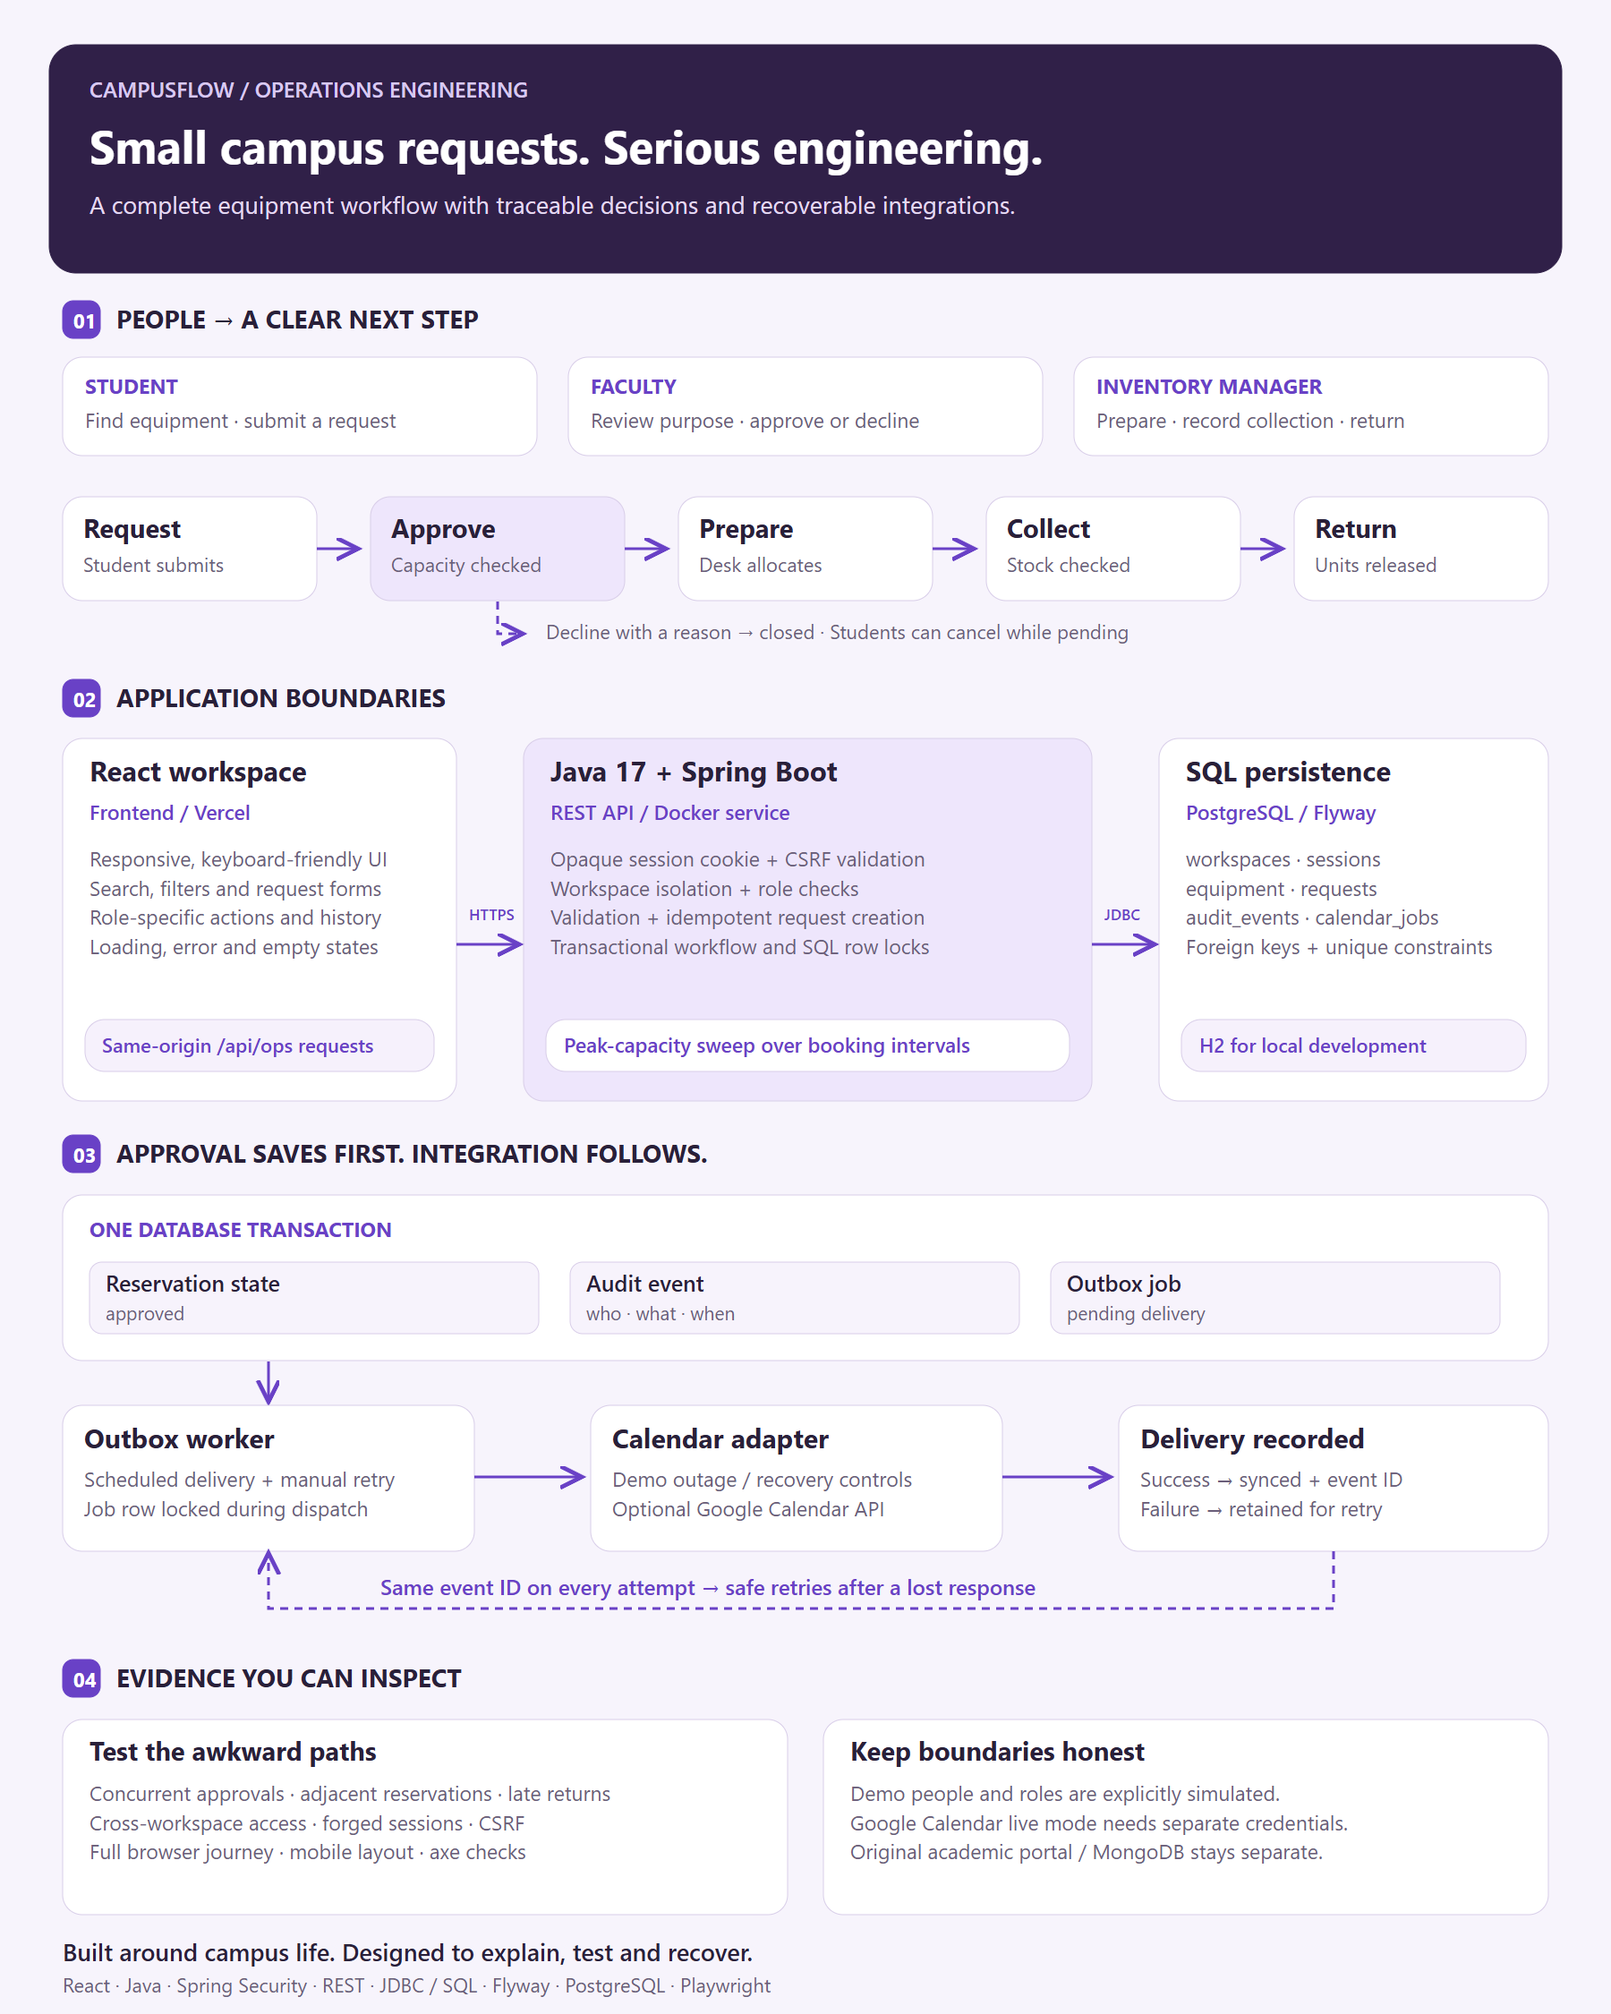
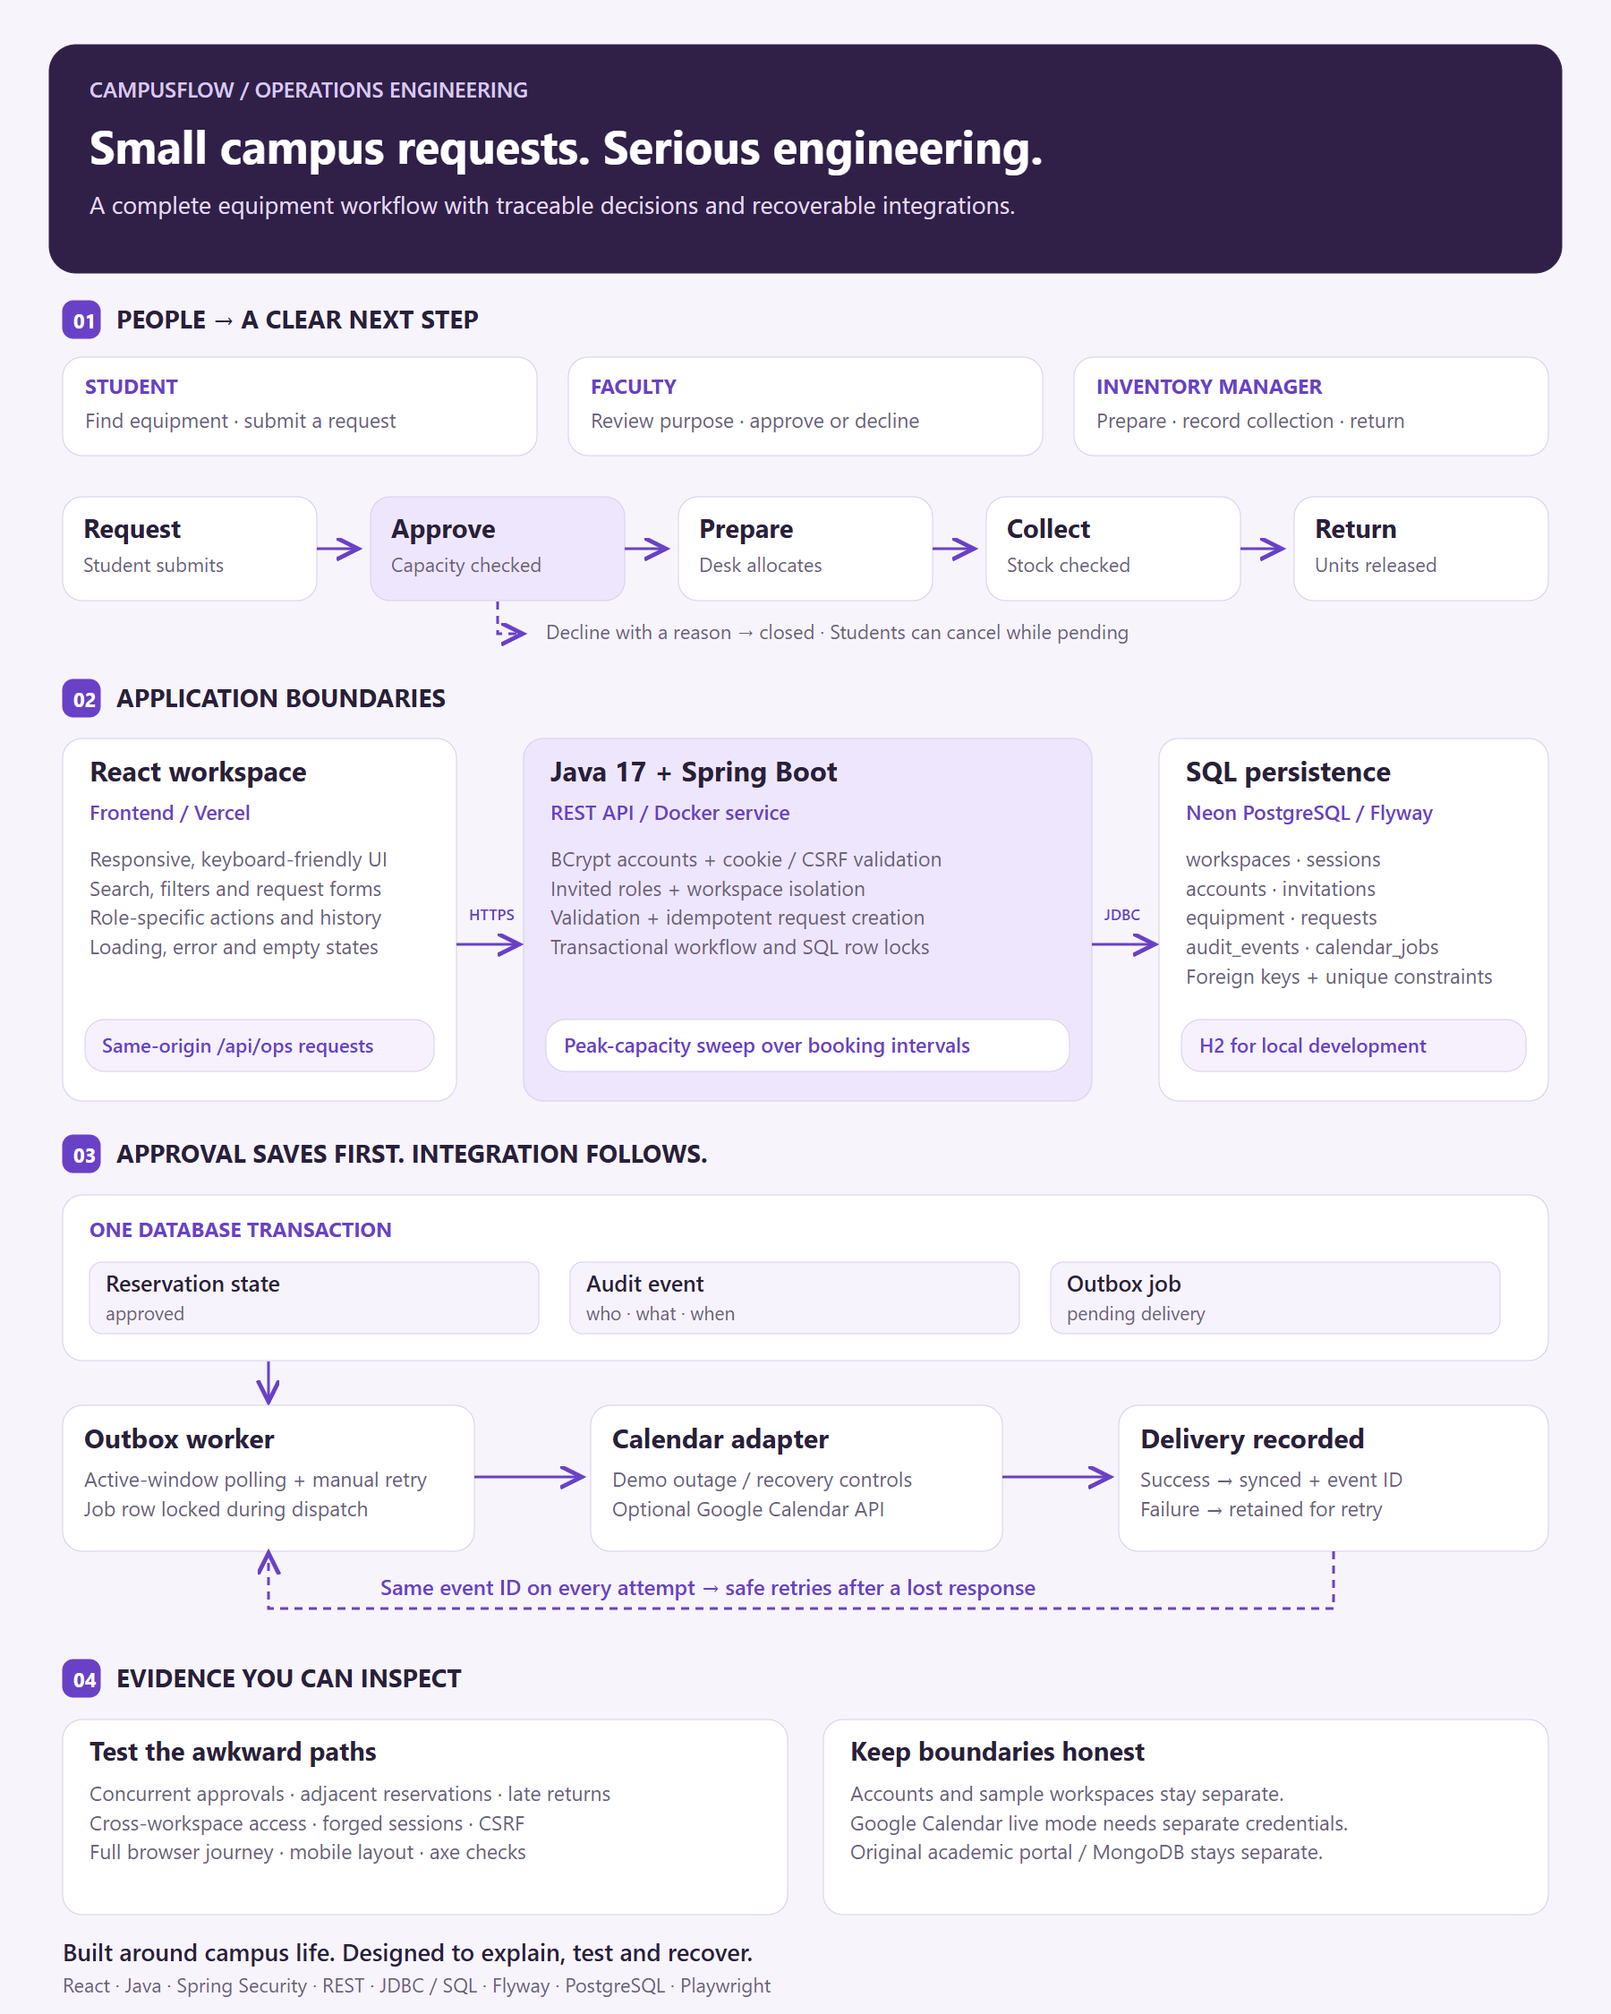
docs: explain team accounts and record Neon migration

diff --git a/docs/DEPLOYMENT.md b/docs/DEPLOYMENT.md
@@ -1,42 +1,66 @@
 # Deployment and verification
 
-The frontend runs on Vercel. The Spring Boot API runs as a Docker web service on Render, with a separate PostgreSQL database in Singapore. `/api/ops/*` must be proxied from Vercel to the Java service so HttpOnly cookies stay on the frontend origin.
+The frontend runs on Vercel. The Spring Boot API runs as a Docker web service on Render, with Neon PostgreSQL in Singapore. `/api/ops/*` must be proxied from Vercel to the Java service so HttpOnly cookies stay on the frontend origin.
 
 ## Current status
 
 - Local production frontend build passed with `CI=true`.
-- 16 Java tests passed using isolated H2 databases and PostgreSQL 18 in GitHub Actions.
-- 13 browser tests passed, including the full workflow and automated accessibility scans.
+- 25 Java tests passed using isolated H2 databases and PostgreSQL 18 in GitHub Actions.
+- 15 browser tests passed locally, including account invitations, restored bookings, the full workflow and automated accessibility scans.
 - Real app screenshots are in `docs/screenshots/`; reproducible script: `npm run screenshots`.
 - Vercel project: `samsh2/campusflow-ops`.
-- Render database: `campusflow-ops-db`, PostgreSQL 18, Singapore.
+- Neon project: `CampusFlow`, PostgreSQL 18, AWS Singapore, Free plan.
+- Imported branch: `br-soft-butterfly-b3lpm99o`; database: `neondb`. The initially created `production` branch is separate and empty.
 - Live frontend: https://campusflow-ops.vercel.app
 - Live Spring Boot service: https://campusflow-ops.onrender.com
-- Render successfully connected to PostgreSQL 18.6, applied migration V1 and returned `UP` from `/actuator/health` on 12 September 2026 (IST).
-- Backend deployment revision: `2a88f3c`; frontend deployment includes `ba4b414`. The Java source is identical across these revisions.
-- PostgreSQL and browser CI: [successful run 34597902279](https://github.com/Sammmmsh/CampusFlow/actions/runs/34597902279).
-- All 13 Playwright tests passed against the public Vercel URL on 12 September 2026: full handoff journey with reload persistence, calendar failure/recovery, forbidden role actions, search, mobile navigation, seven axe page scans and keyboard/dialog checks.
-- Live session checks confirmed `Secure`, `HttpOnly`, `SameSite=Lax`, and `private, no-store`. Missing CSRF tokens and untrusted origins both returned HTTP 403.
-- The seven README screenshots were recaptured from the deployed Vercel site.
+- Backend revision `8f3ed42` is live on Render. Both `/actuator/health` and `/actuator/health/liveness` returned HTTP 200 with `UP` after cutover.
+- Neon shows successful Flyway V1 and V2 history entries. V2 adds accounts and invitation membership to the imported workflow data.
+- Vercel production deployment `dpl_GQynv4eo7oSo7yJRh2LWRjGvZE2b` serves the account UI at the existing public URL.
+- [PostgreSQL and browser CI](https://github.com/Sammmmsh/CampusFlow/actions/runs/34701996862) passed for the deployed application source.
+- The post-migration live browser run is pending. Attempts from the development network on 13 September returned connection resets/timeouts before the Vercel application loaded. A manual GitHub-hosted check is prepared to verify the public deployment from another network.
+- The sign-in screenshot was captured from the running local application; the existing workflow screenshots were captured from the earlier live deployment. Refresh them with the live workflow after verification.
 
-The Render **free PostgreSQL database expires on 11 October 2026**. It is suitable for a temporary portfolio demo. Move the operations data to a durable PostgreSQL plan or another provider before that date if the demo must remain available. No paid plan was enabled. The free Java instance also sleeps after inactivity, so its first request can take longer.
+The old Render **free PostgreSQL database expires on 11 October 2026**. It is retained as the migration source and was not deleted. Neon displayed no branch expiry on its Free plan; this is still a quota-limited service, not a promise of permanent free hosting. No paid plan was enabled. The free Java instance sleeps after inactivity, so its first request can take longer.
+
+## Migration record
+
+Neon's importer copied the Render operations database into a new branch on 12 September 2026 at approximately 14:58 IST. Read-only checks found all seven V1 tables and a successful Flyway V1 history entry. Counts in that snapshot were 15 workspaces, 90 equipment records, 76 requests, 232 audit events, three calendar jobs and 15 sessions. The imported database has the standard `plpgsql` extension; the application does not depend on a provider-specific extension.
+
+The earlier importer warning was no longer visible when verification resumed. The copied schema and rows were verified, but the exact warning text was not recovered. This was a snapshot of the sample-workspace deployment, not ongoing replication: sample changes made on the old service after the snapshot are retained only in the old source. Real account registration was introduced after the import. The MongoDB academic database was not part of this migration.
+
+For another migration, pause writes, export PostgreSQL with `pg_dump --format=custom --no-owner --no-acl`, restore into an empty target, compare table counts and Flyway history, update Render's three database variables, then verify sign-in and a complete booking. Keep the source until the new database is verified. Once new writes are accepted, a rollback must preserve those writes rather than simply reconnecting to an older snapshot.
+
+## Idle behavior and free limits
+
+Use `/actuator/health/liveness` for Render's automatic probe. It checks the Java process without querying SQL. `/actuator/health` still checks database connectivity when explicitly requested. Hikari keeps zero minimum idle connections, closes idle connections after about 30 seconds and has no keepalive query. The calendar worker stops querying after three minutes without operations API traffic and resumes after the next request. Pending calendar delivery can therefore wait while the application is idle.
+
+The selected Neon Free plan showed 0.5 GB storage, 100 CU-hours of monthly compute and 5 GB network transfer. Limits and policies can change; check the provider dashboards. High traffic, repeated polling or continuous database queries can consume the allowance. Render and Vercel have their own free-tier limits. There is no keep-alive pinger or paid upgrade configured by this project.
 
 ## Recreate the deployment
 
 1. Create a new PostgreSQL database for operations. The academic MongoDB database remains independent.
 2. Deploy the repository's `main` branch as a Render **Docker** web service in the same region as PostgreSQL.
-3. Set Dockerfile path to `ops-service/Dockerfile`, build context to `ops-service`, and health check to `/actuator/health`.
+3. Set Dockerfile path to `ops-service/Dockerfile`, build context to `ops-service`, and health check to `/actuator/health/liveness`.
 4. Set `JDBC_DATABASE_URL`, `DATABASE_USERNAME`, `DATABASE_PASSWORD`, `APP_ORIGIN` (the exact frontend origin), `COOKIE_SECURE=true` and `DEMO_ENABLED=true` in the service environment. Never commit credentials. The default H2 file is local development storage and must not be used as persistent production storage on an ephemeral host.
 5. Deploy `frontend/` as a Create React App project on Vercel. Use `npm ci`, `npm run build`, and output directory `build`.
 6. Configure the `/api/ops/:path*` rewrite to the actual Render service, followed by the SPA route fallback. Keep API responses uncacheable.
 7. Verify session creation, CSRF, the full role workflow, database persistence and outage recovery through the Vercel URL. Verify `/actuator/health` returns `UP` on the Java host.
 
+For Neon, use the direct endpoint for JDBC and Flyway. The deployed URL uses `sslmode=verify-full&sslfactory=org.postgresql.ssl.DefaultJavaSSLFactory&channelBinding=require`, with username and password in separate environment variables. This validates the hostname and certificate using Java's trust store; see [pgJDBC SSL configuration](https://jdbc.postgresql.org/documentation/ssl/). Never place the password in the repository, JDBC URL or screenshots.
+
 Public-repository Render deployments may require a manual deploy after later Git pushes. Never assume a new commit is live; inspect the deployed revision.
+
+## Check a live deployment
+
+The **Live deployment check** workflow in GitHub Actions is manual. Select `main`, enable its test-data checkbox, and run it after a deployment or migration. It creates fictional `@example.test` accounts and isolated demo bookings, checks the full browser journeys, and captures current application screenshots. It does not send email or touch existing users' bookings. Account test data persists; sample workspaces follow normal cleanup. Screenshots are available as a seven-day artifact. Browser traces are disabled for this live run so generated test credentials are not published in artifacts.
+
+The regular **CampusFlow checks** workflow continues to test isolated databases on pushes and pull requests. A green local CI run does not establish that hosting, API rewrites or production cookies work; use the separate live check for those.
 
 ## Demo boundaries
 
 - The Vercel deployment excludes local `.env` files. Academic sign-in is intentionally unavailable without the original Express service; the operations workflow is the live demo. Existing MongoDB data has not been migrated or modified.
 - Calendar delivery uses the labelled simulator. The optional Google Calendar adapter has not been tested with live credentials.
+- Real operations accounts use password authentication and invitation-assigned membership. Email verification, password recovery and institutional SSO are not implemented; see [accounts and team workspaces](ACCOUNTS.md).
 - This is a portfolio demo, not a production campus system. The inherited Create React App dependency tree still reports npm audit advisories, including critical advisories; dependency modernization remains separate work. Do not process real campus records or build untrusted contributed code with this setup.
 - The bundled Flyway version warns that PostgreSQL 18 is newer than its tested support range. Migration V1 succeeded on Render and the application tests passed on PostgreSQL 18 in CI; this is not a claim of complete version certification.
 
@@ -46,7 +70,7 @@ The default provider is a simulator and is labelled in the interface. Enabling t
 
 ## Troubleshooting
 
-- **401 on the first session read:** expected; the UI then creates an isolated demo session.
+- **401 on the first session read:** anonymous visitors can enter a sample workspace; returning account users are asked to sign in again.
 - **403 on a mutation:** check `APP_ORIGIN`, the HttpOnly cookie and `X-CSRF-Token`. Do not disable the checks.
 - **409 on approval:** another approved booking occupies the requested capacity. Change the slot or quantity.
 - **409 on collection:** another user still has the units checked out. Record a return first.

diff --git a/docs/ACCOUNTS.md b/docs/ACCOUNTS.md
@@ -1,0 +1,36 @@
+# Accounts and team workspaces
+
+Open `/ops/sign-in` to sign in, create a workspace, or join a team. The sample workspace remains available without registering.
+
+## Membership
+
+Creating an account without an invitation creates a private workspace with six starter equipment items and no fictional bookings. The creator owns that workspace and can use all three workflow roles. Role selection changes the owner's active session role; it does not grant permissions in another workspace.
+
+The owner creates an invitation from **Account** using a teammate's email and a student, faculty or inventory role. The code is single-use, expires after 48 hours, and must be shared privately. Joining requires both that code and the matching email. Members cannot switch their assigned role or invite other members. Request ownership uses the account ID, so people with the same display name cannot cancel each other's requests.
+
+Emails are identifiers, not verified institutional identities. Invitations are not sent by email. Anyone holding the code and knowing its intended email can redeem it. This is password authentication with invited membership, not university SSO or verified student status.
+
+## Sessions and passwords
+
+- BCrypt hashes passwords; registration accepts at least 12 characters and at most 72 UTF-8 bytes.
+- Login issues a random 256-bit session token. PostgreSQL stores its SHA-256 hash, not the bearer token.
+- The browser receives a 24-hour `HttpOnly`, `Secure`, `SameSite=Lax` cookie under `/api/ops`. Vercel proxies those requests to Spring Boot on the same browser origin.
+- Writes require a synchronizer CSRF token and an allowed origin when the Origin header is present. Login, registration and sample-session creation require a custom same-origin request header.
+- Sign-out deletes the server session and expires the cookie. Changing a password requires the current password, revokes existing sessions and issues a new one.
+- Login and registration share a process-local 15-minute limiter: 60 attempts per request IP and 12 per normalized email. The limiter resets on restart and is not a distributed abuse-prevention system. Reverse-proxy addressing can make the IP limit apply to multiple visitors.
+
+There is no forgotten-password recovery, email verification, MFA, membership removal, account deletion or institutional directory integration yet. Do not use this portfolio deployment for sensitive campus records.
+
+## Data lifetime and limits
+
+Account workspaces survive sample-workspace cleanup. Sample sessions last one day; sample workspaces older than seven days are removed when a new sample session starts. Signed-out account data remains in PostgreSQL, subject to the hosting provider's availability and limits.
+
+The application caps accounts at 2,000, requests at 200 per workspace and active invitations at 50 per workspace. These are protective limits, not measured capacity claims. Persistent workspaces need an archive/export and administration workflow before broader use.
+
+Flyway migration V2 adds `accounts` and `invitations`, and links sessions and requests to accounts. It preserves the V1 equipment workflow. The original Express/MongoDB academic portal has a separate authentication implementation and is not connected by this change.
+
+## Checks
+
+`AuthIntegrationTest` covers password hashing, session restoration, invitation expiry and assigned roles, cleanup protection, ownership checks, password-change revocation, CSRF/origin protection, throttling and malformed credentials. `tests/e2e/accounts.spec.js` exercises owner invitation, student request, faculty approval, inventory handoffs, sign-out and login persistence, plus mobile account-page accessibility.
+
+The owner's broad permissions are deliberate. In a real institution, provisioning would be restricted, roles would come from a trusted directory, and separation of duties would be enforced independently of the public signup form.
